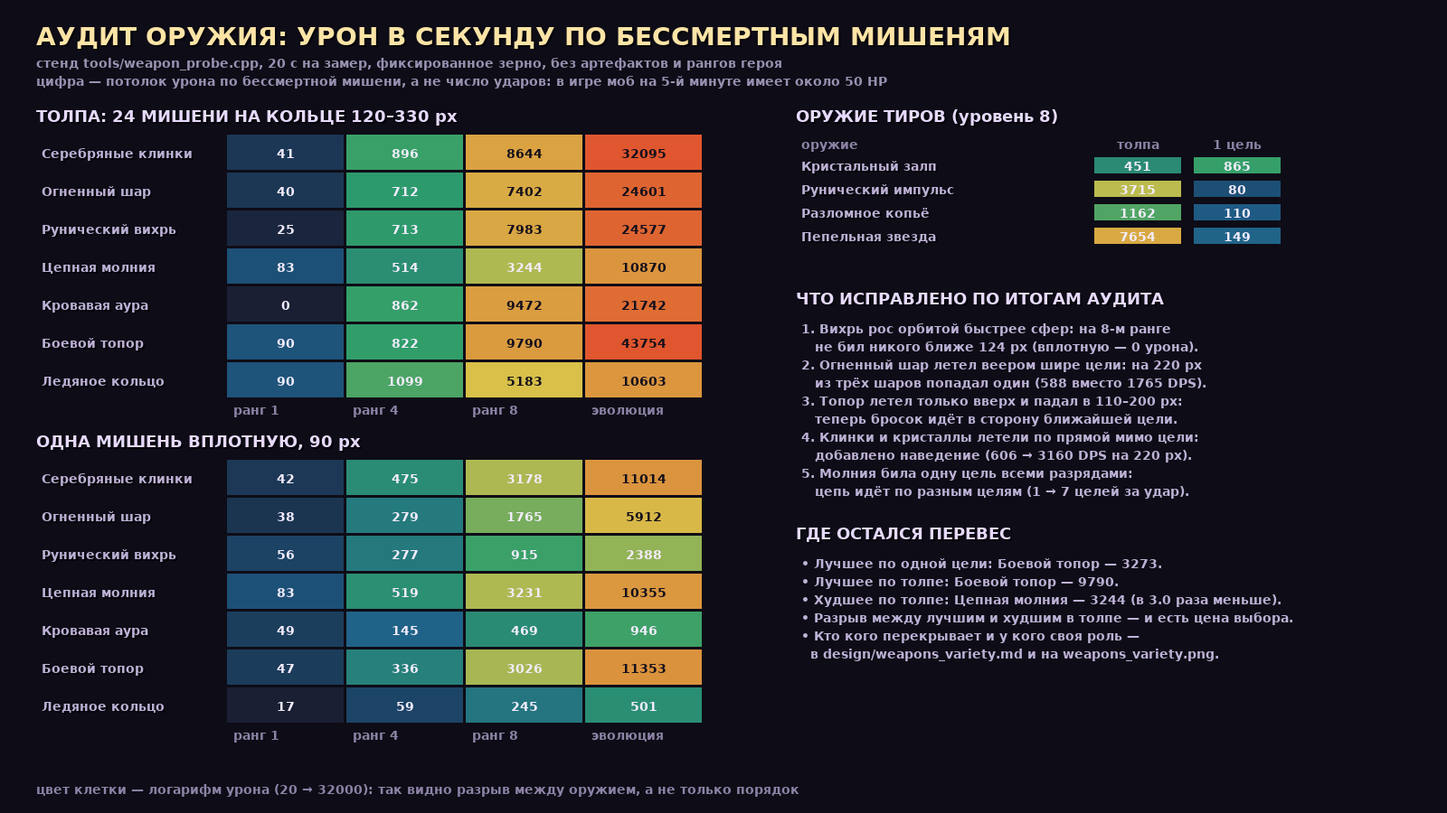
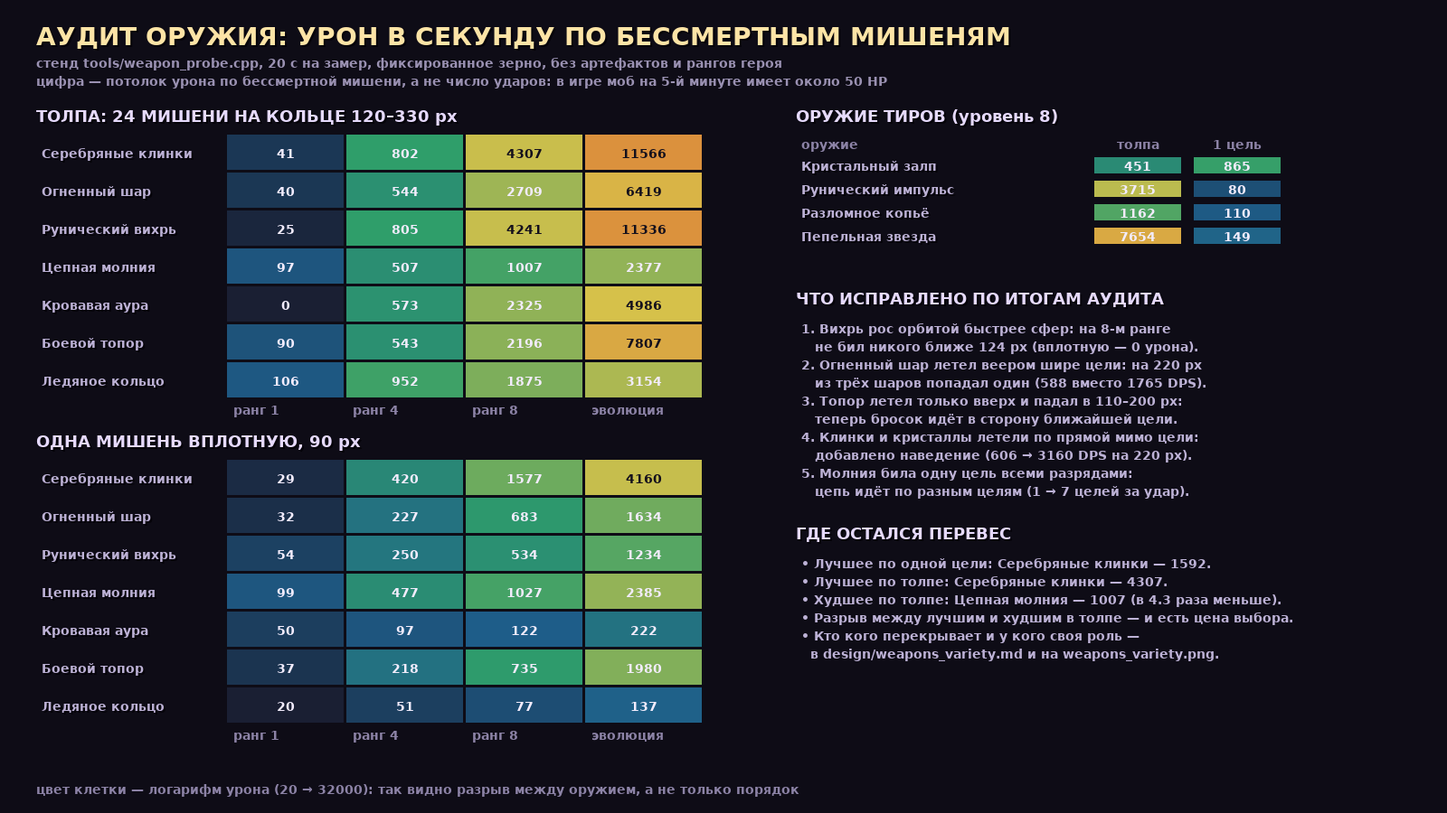
2.12.6: ровнее рост способностей, подпись темпа убрана
ТЕМП: МЕДЛЕННО/СРЕДНЕ/БЫСТРО/ОЧЕНЬ БЫСТРО убран из журнала (темп по толпе
остался в звуке и в волнах по краю экрана), рамка журнала 102 -> 80 px.

Рост способностей от ранга выровнен: урон от уровня у всех семи оружий идёт по
одной кривой (база, x1.8 на 4-м, x1.9 на 8-м вместо до x3.6), множитель ранга
9/8/5/2 % без разгона, пол паузы поднят. Рост 1->8: клинки x35.5 вместо x72.8,
топор x16.2 вместо x82.0, молния x9.9 вместо x38.1 и т.д.; 4-й ранг просел на
10-20 %, 8-й — вдвое. У молнии с 4-го ранга +1 разряд.

weapon_probe: пассивки по семи зёрнам, «не про урон» больше не валит стенд,
строка сравнения с супером считается по замеру.

Changed region(s): [[0.3125, 0.1556, 0.5, 0.4978], [0.3125, 0.56, 0.5, 0.9022], [0.6875, 0.6844, 0.8438, 0.7467]]

diff --git a/src/game.h b/src/game.h
@@ -225,7 +225,7 @@ static inline int holidayMonsterSlot(int type) {
 static constexpr int STORY_INTRO_VERSION = 4;
 static constexpr int PATCH_NOTES_VERSION = GAME_VERSION_NUM;
 // Every released version has one entry in the chronicle (see versions[]/notes[]).
-static constexpr int PATCH_NOTES_COUNT = 160;
+static constexpr int PATCH_NOTES_COUNT = 161;
 
 // ── Arena identity ──────────────────────────────────────────────────────────────
 // Each act is a different place, not the same floor with a new tint: stone, mortar,
@@ -2384,20 +2384,38 @@ struct Game {
         return tier >= 2 ? 4.0f : (tier == 1 ? 1.85f : 1.0f);
     }
     float getEvoMultiplier(int weaponId) const { return evolvedWeapons[weaponId] ? 1.65f : 1.0f; }
+    // Урон от уровня у всех семи оружий растёт по одной кривой: 1-й ранг — база,
+    // к 4-му — ×1.80, к 8-му — ×1.90. Раньше у каждого оружия был свой линейный
+    // наклон (+7.5, +14, +6.5 … урона за уровень), и к 8-му рангу урон утраивался:
+    // вместе с множителем ранга, частотой и снарядами выходил рост в 30–80 раз.
+    // Кривая спереди круче, чем сзади: середина забега (4-й ранг) остаётся
+    // рабочей, а к 8-му рангу усиление уже не сметает волну одним залпом.
+    float getWeaponLevelCurve(int level) const {
+        static const float curve[8] = {1.00f, 1.30f, 1.57f, 1.80f, 1.84f, 1.87f, 1.89f, 1.90f};
+        const int i = std::max(0, std::min(7, level - 1));
+        return curve[i];
+    }
+    // Рост от ранга. До 2.12.6 здесь стояло +8–14 % за ранг ПЛЮС разгон
+    // (+0.003 за каждый следующий ранг), и вместе с линейным уроном от уровня и
+    // числом снарядов одно оружие росло с 1-го до 8-го ранга в 30–80 раз по одной
+    // цели и в 200–1200 раз по толпе: к 8-му рангу любая волна сметалась залпом,
+    // и дальше играть было не во что. Теперь множитель ранга — 9, 8, 5 %, дальше
+    // по 2 % и без разгона: 1-й → 8-й ранг даёт ×1.33 по урону за ранг, остальное
+    // добирают уровень, частота и охват. Стенд: tools/weapon_probe.cpp.
     float getWeaponRankDamageMultiplier(int weaponId) const {
-        static const float rankGrowth[7] = {1.10f, 1.13f, 1.08f, 1.12f, 1.09f, 1.14f, 1.11f};
+        static const float rankGrowth[7] = {1.090f, 1.080f, 1.050f, 1.020f, 1.020f, 1.020f, 1.020f};
         if (weaponId < 0 || weaponId >= 7) return 1.0f;
         float multiplier = 1.0f;
         for (int rank = 0; rank < std::max(0, itemLevels[weaponId] - 1); ++rank)
-            multiplier *= rankGrowth[weaponId] + 0.003f * rank; // later ranks hit harder than early ranks
+            multiplier *= rankGrowth[weaponId];
         return multiplier;
     }
     float getWeaponRankCooldownMultiplier(int weaponId) const {
-        static const float rankCadence[7] = {0.970f, 0.985f, 0.960f, 0.975f, 0.950f, 0.985f, 0.955f};
+        static const float rankCadence[7] = {0.985f, 0.992f, 0.980f, 0.988f, 0.975f, 0.992f, 0.978f};
         if (weaponId < 0 || weaponId >= 7) return 1.0f;
         float multiplier = 1.0f;
         for (int rank = 0; rank < std::max(0, itemLevels[weaponId] - 1); ++rank)
-            multiplier *= std::max(0.88f, rankCadence[weaponId] - 0.0015f * rank);
+            multiplier *= std::max(0.94f, rankCadence[weaponId]);
         return multiplier;
     }
     float getWeaponRankAreaMultiplier(int weaponId) const {
@@ -2405,7 +2423,7 @@ struct Game {
         if (weaponId < 0 || weaponId >= 7) return 1.0f;
         float areaBonus = 0.0f;
         for (int rank = 0; rank < std::max(0, itemLevels[weaponId] - 1); ++rank)
-            areaBonus += rankArea[weaponId] + 0.004f * rank;
+            areaBonus += rankArea[weaponId];
         return 1.0f + areaBonus;
     }
     // Рунический вихрь: формулы сфер вынесены в одно место, чтобы отрисовка
@@ -2431,7 +2449,7 @@ struct Game {
             case 0: return 1 + level / 2 + evolvedBonus;
             case 1: return 1 + (level >= 4 ? 1 : 0) + (level >= 7 ? 1 : 0) + evolvedBonus;
             case 2: return 3 + level / 2 + evolvedBonus;
-            case 3: return 3 + level / 2 + evolvedBonus;
+            case 3: return 3 + level / 2 + (level >= 4 ? 1 : 0) + evolvedBonus;
             case 5: return 1 + level / 3 + (level >= 7 ? 1 : 0) + evolvedBonus;
             default: return 0;
         }
@@ -5382,7 +5400,7 @@ struct Game {
             weaponTimers[0] -= dt;
             if (weaponTimers[0] <= 0.0f) {
                 int lvl = itemLevels[0];
-                weaponTimers[0] = std::max(0.22f, (0.78f - lvl * 0.05f) * cdMult * getWeaponRankCooldownMultiplier(0));
+                weaponTimers[0] = std::max(0.30f, (0.78f - lvl * 0.05f) * cdMult * getWeaponRankCooldownMultiplier(0));
                 int count = 1 + lvl / 2 + (evolvedWeapons[0] ? 2 : 0);
                 int target = findNearestMonster(playerX, playerY, 550.0f);
                 float baseAngle = (playerFacing > 0) ? 0.0f : 3.14159f;
@@ -5398,7 +5416,7 @@ struct Game {
                     p.vx = cosf(a) * 520.0f;
                     p.vy = sinf(a) * 520.0f;
                     p.weaponId = 0;
-                    p.damage = (18.0f + lvl * 7.5f) * getEvoMultiplier(0) * getWeaponRankDamageMultiplier(0);
+                    p.damage = 25.5f * getWeaponLevelCurve(lvl) * getEvoMultiplier(0) * getWeaponRankDamageMultiplier(0);
                     p.radius = 9.0f * areaMult * getWeaponRankAreaMultiplier(0);
                     p.life = 1.35f;
                     p.pierce = 1 + (lvl >= 4 ? 1 : 0) + (lvl >= 7 ? 1 : 0);
@@ -5415,7 +5433,7 @@ struct Game {
             weaponTimers[1] -= dt;
             if (weaponTimers[1] <= 0.0f) {
                 int lvl = itemLevels[1];
-                weaponTimers[1] = std::max(0.55f, (1.65f - lvl * 0.10f) * cdMult * getWeaponRankCooldownMultiplier(1));
+                weaponTimers[1] = std::max(0.75f, (1.65f - lvl * 0.10f) * cdMult * getWeaponRankCooldownMultiplier(1));
                 int count = 1 + (lvl >= 4 ? 1 : 0) + (lvl >= 7 ? 1 : 0) + (evolvedWeapons[1] ? 1 : 0);
                 int target = findNearestMonster(playerX, playerY, 600.0f);
                 float baseAngle = (target >= 0)
@@ -5447,7 +5465,7 @@ struct Game {
                     p.vx = cosf(a) * 340.0f;
                     p.vy = sinf(a) * 340.0f;
                     p.weaponId = 1;
-                    p.damage = (34.0f + lvl * 14.0f) * getEvoMultiplier(1) * getWeaponRankDamageMultiplier(1);
+                    p.damage = 48.0f * getWeaponLevelCurve(lvl) * getEvoMultiplier(1) * getWeaponRankDamageMultiplier(1);
                     p.radius = 14.0f * areaMult * getWeaponRankAreaMultiplier(1);
                     p.life = 1.8f;
                     p.pierce = 1;
@@ -5476,7 +5494,7 @@ struct Game {
                 const float innerEdge = (78.0f + lvl * 3.0f) - (23.0f + lvl * 1.6f);
                 float hitRad = std::max((23.0f + lvl * 1.6f) * areaMult * getWeaponRankAreaMultiplier(2),
                                         orbitRad - innerEdge);
-                float dmg = (15.0f + lvl * 6.5f) * getEvoMultiplier(2) * getWeaponRankDamageMultiplier(2);
+                float dmg = 21.5f * getWeaponLevelCurve(lvl) * getEvoMultiplier(2) * getWeaponRankDamageMultiplier(2);
                 // Мёртвая середина. Сферы ходят по кольцу, и враг, стоящий вплотную
                 // к герою, оказывался ВНУТРИ кольца: вихрь не задевал его вообще.
                 // На стенде волны трое таких мобов стояли нетронутыми 90 с. Вихрь
@@ -5521,9 +5539,9 @@ struct Game {
             weaponTimers[3] -= dt;
             if (weaponTimers[3] <= 0.0f) {
                 int lvl = itemLevels[3];
-                weaponTimers[3] = std::max(0.65f, (2.1f - lvl * 0.14f) * cdMult * getWeaponRankCooldownMultiplier(3));
-                int strikes = 3 + lvl / 2 + (evolvedWeapons[3] ? 3 : 0);
-                float dmg = (30.0f + lvl * 12.0f) * getEvoMultiplier(3) * getWeaponRankDamageMultiplier(3);
+                weaponTimers[3] = std::max(0.95f, (2.1f - lvl * 0.14f) * cdMult * getWeaponRankCooldownMultiplier(3));
+                int strikes = 3 + lvl / 2 + (lvl >= 4 ? 1 : 0) + (evolvedWeapons[3] ? 3 : 0);
+                float dmg = 50.0f * getWeaponLevelCurve(lvl) * getEvoMultiplier(3) * getWeaponRankDamageMultiplier(3);
                 // Цепь идёт по РАЗНЫМ целям: раньше каждый следующий разряд искал
                 // ближайшего к предыдущей жертве, то есть снова её же (расстояние 0),
                 // и все удары складывались в одну цель — «цепная» молния не цеплялась.
@@ -5566,7 +5584,7 @@ struct Game {
                 int lvl = itemLevels[4];
                 weaponTimers[4] = 0.38f * cdMult * getWeaponRankCooldownMultiplier(4);
                 float auraRad = (88.0f + lvl * 11.0f) * areaMult * getWeaponRankAreaMultiplier(4);
-                float dmg = (10.0f + lvl * 4.8f) * getEvoMultiplier(4) * getWeaponRankDamageMultiplier(4);
+                float dmg = 14.8f * getWeaponLevelCurve(lvl) * getEvoMultiplier(4) * getWeaponRankDamageMultiplier(4);
                 for (size_t m = 0; m < monsters.size(); ++m) {
                     if (monsters[m].hp <= 0.0f) continue;
                     float dx = monsters[m].x - playerX;
@@ -5585,7 +5603,7 @@ struct Game {
             weaponTimers[5] -= dt;
             if (weaponTimers[5] <= 0.0f) {
                 int lvl = itemLevels[5];
-                weaponTimers[5] = std::max(0.55f, (1.45f - lvl * 0.09f) * cdMult * getWeaponRankCooldownMultiplier(5));
+                weaponTimers[5] = std::max(0.65f, (1.45f - lvl * 0.09f) * cdMult * getWeaponRankCooldownMultiplier(5));
                 int count = 1 + lvl / 3 + (lvl >= 7 ? 1 : 0) + (evolvedWeapons[5] ? 2 : 0);
                 // Топоры летели только вверх и на 110–200 px: на первом ранге один
                 // топор падал в 120 px от героя и не доставал никого дальше. Теперь
@@ -5621,7 +5639,7 @@ struct Game {
                         p.vy = vy;
                     }
                     p.weaponId = 5;
-                    p.damage = (36.0f + lvl * 15.0f) * getEvoMultiplier(5) * getWeaponRankDamageMultiplier(5);
+                    p.damage = 51.0f * getWeaponLevelCurve(lvl) * getEvoMultiplier(5) * getWeaponRankDamageMultiplier(5);
                     p.radius = 18.0f * areaMult * getWeaponRankAreaMultiplier(5);
                     p.life = 2.0f;
                     p.pierce = 999; // Pierces all enemies!
@@ -5638,9 +5656,9 @@ struct Game {
             weaponTimers[6] -= dt;
             if (weaponTimers[6] <= 0.0f) {
                 int lvl = itemLevels[6];
-                weaponTimers[6] = std::max(1.2f, (3.2f - lvl * 0.22f) * cdMult * getWeaponRankCooldownMultiplier(6));
+                weaponTimers[6] = std::max(1.30f, (3.2f - lvl * 0.22f) * cdMult * getWeaponRankCooldownMultiplier(6));
                 float maxRad = (155.0f + lvl * 18.0f) * areaMult * getWeaponRankAreaMultiplier(6);
-                float dmg = (24.0f + lvl * 10.0f) * getEvoMultiplier(6) * getWeaponRankDamageMultiplier(6);
+                float dmg = 40.0f * getWeaponLevelCurve(lvl) * getEvoMultiplier(6) * getWeaponRankDamageMultiplier(6);
                 FrostWave fw = {playerX, playerY, 20.0f, maxRad, 0.40f, 0.40f};
                 frostWaves.push_back(fw);
                 bool frozeAnyTarget = false;
@@ -8874,7 +8892,9 @@ struct Game {
 
         // 4. Top-right run ledger: fixed-width columns and compact large counters prevent collisions.
         const int ledgerW = 310, ledgerX = SCREEN_W - 324;
-        drawUIFrame(r, ledgerX, 33, ledgerW, 102, 0xFF66D5E8, true, 242);
+        // Три строки, а не четыре: рамка ужата под них (было 102 px на четыре
+        // строки с «ТЕМП: …»).
+        drawUIFrame(r, ledgerX, 33, ledgerW, 80, 0xFF66D5E8, true, 242);
         auto compactCounter = [](long long value) {
             char out[32];
             if (value >= 1000000000LL) snprintf(out, sizeof(out), "%.1fB", value / 1000000000.0);
@@ -8892,11 +8912,9 @@ struct Game {
         // Dedicated third row keeps long DPS values (e.g. 1111) from touching audio status.
         snprintf(buf, sizeof(buf), "SFX %s   /   MUSIC %s", sound.enabled ? "ON" : "OFF", sound.musicEnabled ? "ON" : "OFF");
         r.drawTextRight(FONT_SMALL, ledgerX + ledgerW - 12, 85, buf, (sound.enabled && sound.musicEnabled) ? 0xFF70FF98 : 0xFF9890A8);
-        static const char* tempoLabels[4]={"МЕДЛЕННО","СРЕДНЕ","БЫСТРО","ОЧЕНЬ БЫСТРО"};
-        static const uint32_t tempoColors[4]={0xFF8C91C7,0xFF65D9E8,0xFFFFB957,0xFFFF6374};
-        const int displayedTempo=std::max(0,std::min(3,musicCrowdTempoTier));
-        snprintf(buf,sizeof(buf),"ТЕМП: %s",tempoLabels[displayedTempo]);
-        r.drawTextRight(FONT_SMALL, ledgerX + ledgerW - 12, 108, buf, tempoColors[displayedTempo]);
+        // Темп музыки по толпе живёт в звуке (SoundEngine::nextMusicTempoTier) и
+        // слышен на слух: цветные волны по краю экрана. Отдельная строка
+        // «ТЕМП: МЕДЛЕННО» в журнале только занимала место — убрана в 2.12.6.
 
         // 5. Off-screen Boss Chest indicator arrow
         for (const auto& p : pickups) {
@@ -13060,6 +13078,7 @@ struct Game {
             "2.12.3 • WINDOWS-СБОРКА И АПДЕЙТЕР",
             "2.12.4 • АПДЕЙТЕР ПРОВЕРЯЕТ САМ СЕБЯ",
             "2.12.5 • КНОПКА «НАЗАД» В ПРАЗДНИКАХ",
+            "2.12.6 • РОСТ СПОСОБНОСТЕЙ ПОЛОЖЕ",
         };
                 // Заметки намеренно не сокращаются: панель листается колесом мыши.
         static const char* const notes[] = {
@@ -13222,6 +13241,7 @@ struct Game {
             "Windows-сборка снова собирается, а апдейтер больше не врёт о причинах.\n• Настоящая причина: с 2.10.48 в WinMain третий параметр был безымянным (LPSTR), а ниже командная строка читалась как lpCmdLine. GCC и clang на этом останавливаются, но стенды собирают другой файл, поэтому ошибку никто не видел: версии 2.10.48-2.12.2 на Windows не собирались вообще. Теперь параметр назван, и exe линкуется.\n• Почему это не всплыло раньше: все стенды - отдельные единицы трансляции, они включают game.h и не трогают src/main_win32.cpp. Появился tools/check_win32.sh: он собирает ровно тот же TU кросс-компилятором (Zig/LLVM, x86_64-windows-gnu) с теми же ключами, что build_windows.bat. Проверка занимает секунды и ловит именно такие разрывы.\n• Апдейтер: показ лога шага шёл внешней утилитой type, и на одной машине она падала как «ype». Код возврата снимался уже после показа, поэтому успешный git pull считался неудачным. Теперь код возврата снимается сразу после git, а лог печатается средствами cmd (FOR по файлу). Тот же порядок исправлен и в переключении ветки: раньше там показывался не тот файл.\n• Если сборка всё-таки не прошла, апдейтер больше не прячет причину: печатает строки с error из build\build.log и кладёт копию рядом - build_error.log. Прошлый раз причина была именно в этом логе, а на экране было только «g++ compile failed».\n• Новый tools/check_bat_labels.py: сверяет все goto и call с метками в update.bat и build_windows.bat. Опечатка в метке в cmd означает не ошибку, а тихое «продолжить со следующей строки» - такую поломку глазами не поймать.\n• Честно: проверено компиляцией и линковкой под Windows-цель, запуска на Windows не было. Апдейтер проверен разбором сгенерированного bat и сверкой меток, а не прогоном в cmd.",
             "Сборка 2.12.3 прошла, а в консоли осталось чужое сообщение - и это был не код игры.\n• В логе обновления появилась строка «после.» не является командой, хотя сборка закончилась BUILD SUCCESS. Такое бывает, когда update.bat на диске не совпадает с версией в ветке: cmd читает чужие строки и выполняет их обрывки. В том запуске копия действительно расходилась с веткой - апдейтер сам отложил её перед git pull, поэтому обновление всё равно доехало.\n• Теперь апдейтер сверяет себя с веткой до начала работы: git hash-object update.bat против HEAD:update.bat. Если файл испорчен или старше того, что лежит в ветке, он ставит версию из ветки и просит запустить заново - вместо того чтобы выполнять обрывки чужих строк. Если на диске лежит более свежая копия (её скачали руками), она остаётся: версии сравниваются.\n• Из 2.12.3 сюда же: код возврата git снимается до показа лога, показ идёт средствами cmd, а при провале сборки на экран попадают error-строки из build\build.log.\n• Честно: воспроизвести именно строку «после.» не удалось - в файле из ветки такой команды нет. Поэтому лечится не симптом, а причина: расхождение файла с веткой теперь видно и исправляется само.",
             "Из календаря праздников нельзя было выйти мышью или пальцем.\n• Экран открывается из настроек и из паузы, но выйти из него можно было только клавишей ESC. Кнопки не было вовсе: три переключателя внизу — «ПРАЗДНИКИ», «ПРОВЕРКА», «СДВИГ ДАТЫ» — и всё. На телефоне клавиши нет, то есть с телефона календарь становился ловушкой.\n• Теперь в подвале есть «← НАЗАД [ESC]»: в альбоме — справа в ряду переключателей, в портрете — четвёртой строкой столбика. Та же кнопка, что в настройках: нажатие, подсветка под курсором, на телефоне подпись читается как «← НАЗАД».\n• Клавиши работают как раньше: ESC, ENTER и SPACE закрывают календарь и возвращают туда, откуда его открыли (в настройки или в паузу).\n• Попутно в альбоме подсказка клавиш стояла прямо на ряду кнопок (строка на SCREEN_H-22 при кнопках до SCREEN_H-20) — теперь она над рядом и ужимается по ширине. В портрете подвал вырос с 132 до 176 px: четыре кнопки в прежние 132 не вставали.\n• Подписи кнопок ужимаются по своей ширине: на 800×600 «ПРОВЕРКА: ПО КАЛЕНДАРЮ» была шире кнопки и заезжала на соседнюю.\n• Хеш экрана «праздники» сменился с 3f868c27 на 39049f60 — это тот самый ряд кнопок. Кадры боя не изменились: 2.12.5 рисует календарь, а не арену.",
+            "Две правки по одному отзыву: «ТЕМП: медленно» в журнале устарел, а способности растут слишком сильно.\n• Строка «ТЕМП: МЕДЛЕННО / СРЕДНЕ / БЫСТРО / ОЧЕНЬ БЫСТРО» убрана из журнала справа сверху: темп музыки по толпе и так слышен и виден цветными волнами по краю экрана, а подпись только занимала место. Рамка журнала стала ниже: 102 -> 80 px.\n• Рост способностей от ранга: урон за ранг умножался на +8-14 % и получал разгон на поздних рангах, у каждого оружия был свой наклон урона от уровня, сверху шли частота, снаряды и площадь. Одно оружие с 1-го до 8-го ранга усиливалось в 29-82 раза по одной цели и в 43-1200 раз по толпе.\n• Теперь урон от уровня у всех семи оружий идёт по одной кривой: 1-й ранг - база, 4-й - x1.8, 8-й - x1.9 (было до x3.6). Кривая спереди круче, поэтому середина забега не просела.\n• Множитель урона за ранг: 9 %, 8 %, 5 %, дальше по 2 % - без разгона. Пол паузы между срабатываниями поднят: клинки 0.30 вместо 0.22 с, молния 0.95 вместо 0.65, топор 0.65 вместо 0.55, кольцо 1.30 вместо 1.20.\n• Охват не трогал: снаряды и радиусы остались прежними - это роль оружия, а не темп роста. У молнии с 4-го ранга на один разряд больше: на стенде зачистки она стояла на самой границе.\n• Итог по стенду оружия (одна цель / толпа): клинки x35.5 / x101.7 вместо x72.8 / x209.9, шар x18.3 / x98.6 вместо x47.5 / x197.3, вихрь x11.5 / x383.7 вместо x29.3 / x1210, молния x9.9 / x11.4 вместо x38.1 / x42.8, топор x16.2 / x26.9 вместо x82.0 / x111.2, кольцо x3.5 / x18.2 вместо x11.7 / x56.2, аура x2.5 вместо x9.6.\n• То есть 1-4-й ранги почти как были (на 10-20 % слабее), а 5-8-й дают вдвое меньше. Ранг 8 у каждого оружия остаётся лучшим, но перестаёт быть кнопкой зачистки.\n• Стенд зачистки (40 мобов с здоровьем 5-й минуты): на 4-м ранге 12.6 с у клинков, 7.7 у шара, 9.8 у вихря, 18.9 у молнии, 14.0 у ауры, 9.7 у топора, 17.7 у кольца при лимите 20 с - провалов 0.\n• tools/weapon_probe.cpp: пассивки усредняются по семи зёрнам, артефакты «не про урон» помечаются как шум и не валят стенд. Строка сравнения с суперумением считается по замеру, а не вписана руками.\n• Честно: баланс проверен стендами, а не живым забегом; сколько волн выживает игрок после правки, никто не проходил.",
         };
         static_assert(sizeof(versions) / sizeof(versions[0]) == PATCH_NOTES_COUNT,
                       "хроника: versions[] должен совпадать с PATCH_NOTES_COUNT");

diff --git a/src/version.h b/src/version.h
@@ -7,9 +7,9 @@
 // drift apart again. The fallback below only applies to plain `g++` builds
 // (IDE, syntax check, the headless tests).
 #ifndef GAME_VERSION
-#define GAME_VERSION "2.12.5"
+#define GAME_VERSION "2.12.6"
 #endif
 #ifndef GAME_VERSION_NUM
 // 2.9.80 -> 2*1000 + 9*100 + 80
-#define GAME_VERSION_NUM 3205
+#define GAME_VERSION_NUM 3206
 #endif

diff --git a/CHANGELOG.md b/CHANGELOG.md
@@ -1,4 +1,88 @@
-# CHANGELOG — ShadowSurvivors 2.12.5+
+# CHANGELOG — ShadowSurvivors 2.12.6+
+
+## 2.12.6 — «Способности растут ровнее»
+
+Два отзыва одной строкой: «ТЕМП: медленно — это устарело, придётся убрать» и
+«слишком сильно стали расти способности по мере улучшения».
+
+### 1. Подпись темпа убрана из журнала
+
+Строка `ТЕМП: МЕДЛЕННО / СРЕДНЕ / БЫСТРО / ОЧЕНЬ БЫСТРО` жила в журнале справа
+сверху с 2.9.32. Темп музыки по толпе никуда не делся — он слышен и виден
+цветными волнами по краю экрана (`renderMusicTempoEffects`), — но подпись только
+занимала место. Убрана; рамка журнала ужата со 102 до 80 px.
+
+### 2. Рост способностей от ранга
+
+Что было: урон за ранг умножался на +8…14 % **и** получал разгон
+(`+0.003 * rank`), у каждого оружия был свой линейный наклон урона от уровня
+(+7.5, +14, +6.5 … за уровень), сверху — сокращение паузы, прибавка снарядов и
+площади. Одно оружие с 1-го до 8-го ранга усиливалось в **29–82 раза** по одной
+цели и в **43–1200 раз** по толпе: к 8-му рангу волна сметалась одним залпом.
+
+Что стало:
+
+- урон от уровня у всех семи оружий считается по одной кривой — 1-й ранг база,
+  4-й ×1.8, 8-й ×1.9 (было до ×3.6). Кривая спереди круче: середина забега не
+  просела;
+- множитель урона за ранг — 9 %, 8 %, 5 %, дальше по 2 % (было 8–14 % плюс
+  разгон на поздних рангах);
+- бонус площади за ранг потерял разгон `+0.004 * rank`;
+- пол паузы между срабатываниями поднят: клинки 0.30 вместо 0.22 с, молния 0.95
+  вместо 0.65, топор 0.65 вместо 0.55, кольцо 1.30 вместо 1.20;
+- число снарядов и радиусы оставлены прежними: охват — то, ради чего эти оружия
+  берут, и резать его значило бы менять роль оружия, а не темп роста;
+- у молнии с 4-го ранга на один разряд больше (6 вместо 5 на 4-м ранге): на
+  стенде зачистки она стояла на самой границе 20 с.
+
+Рост по стенду (`tools/weapon_probe.cpp`, одна цель в 90 px / толпа):
+
+| оружие | было | стало |
+|---|---|---|
+| Серебряные клинки | ×72.8 / ×209.9 | ×35.5 / ×101.7 |
+| Огненный шар | ×47.5 / ×197.3 | ×18.3 / ×98.6 |
+| Рунический вихрь | ×29.3 / ×1210 | ×11.5 / ×383.7 |
+| Цепная молния | ×38.1 / ×42.8 | ×9.9 / ×11.4 |
+| Кровавая аура | ×9.6 / — | ×2.5 / — |
+| Боевой топор | ×82.0 / ×111.2 | ×16.2 / ×26.9 |
+| Ледяное кольцо | ×11.7 / ×56.2 | ×3.5 / ×18.2 |
+
+Иначе говоря: 1–4-й ранги почти как были (на 10–20 % слабее), 5–8-й дают примерно
+вдвое меньше, чем раньше. Ранг 8 остаётся лучшим у каждого оружия, но перестаёт
+быть «кнопкой зачистки».
+
+Проверка стендом зачистки (`tools/variety_probe.cpp`, 40 мобов с здоровьем 5-й
+минуты, одно оружие): 4-й ранг — 12.6 с у клинков, 7.7 у шара, 9.8 у вихря,
+18.9 у молнии, 14.0 у ауры, 9.7 у топора, 17.7 у кольца (лимит 20 с). Было
+11.3 / 7.6 / 10.7 / 19.3 / 8.4 / 7.8 / 14.6. 8-й ранг — 3.7 / 5.4 / 4.8 / 9.7 /
+8.1 / 5.9 / 10.6 против 3.5 / 4.8 / 4.8 / 5.0 / 8.2 / 5.5 / 3.7. Прогон зелёный,
+провалов 0.
+
+### 3. Стенд оружия больше не падает на шуме
+
+- Пассивки усредняются по семи зёрнам (было три): «Руна Возврата» на трёх зёрнах
+  давала −3.8 % и валила стенд в «ХУЖЕ БАЗЫ», хотя урона не касается.
+- Артефакты, у которых в стенде нет события (опыт, золото, щит, потеря HP),
+  помечаются как «шум, не про урон». Провал остаётся только за артефактом,
+  который обещает урон.
+- Строка «для сравнения: ранг-1 … ранг-8 …» считается по замеру, а не вписана
+  руками (раньше там висели цифры 2.10.42).
+
+### Проверка
+
+- `weapon_probe` — провалов 0, рост от ранга монотонный у всех семи оружий.
+- `variety_probe` — все семь оружий зачищают волну на 4-м и 8-м ранге, провалов 0.
+- `screen_check`: сменился экран боя (журнал и подпись версии), остальные хеши —
+  из-за версии в углу экрана.
+- `check_version.py`, `check_win32.sh`, `check_android.sh`, `check_bat_labels.py` —
+  без замечаний.
+
+### Честно
+
+- Порог сложности не подгонялся: правка сужает рост силы, но «сколько волн
+  выживает игрок» живым забегом не проверялось — только стендами зачистки.
+- Множитель эволюции (×1.65) и суперумение не трогал: жалоба была про рост
+  обычных способностей по рангам.
 
 ## 2.12.5 — «Кнопка „Назад“ в праздниках»
 

diff --git a/design/weapons_audit.md b/design/weapons_audit.md
@@ -224,3 +224,62 @@ build/weapon_chart /tmp/weapon_after.csv design/weapons_audit.ppm
 если цепь бьёт меньше двух разных целей, если оружие не попадает по движущейся
 цели, если пассивка на максимуме ухудшает урон или если суперумение не задело
 никого. Прогон «до правок» делается тем же стендом против `git archive HEAD`.
+
+## 2.12.6 — рост от ранга выровнен
+
+Жалоба: «слишком сильно стали расти способности по мере улучшения».
+
+Считалось: множитель урона за ранг (+8–14 % и разгон +0.003 за ранг), свой
+линейный наклон урона от уровня у каждого оружия (+7.5, +14, +6.5 … за уровень),
+сокращение паузы, прибавка снарядов и площади — всё умножалось друг на друга.
+Одно оружие с 1-го до 8-го ранга усиливалось в 29–82 раза по одной цели и в
+43–1200 раз по толпе.
+
+Что поменялось (подробности — в `CHANGELOG.md` за 2.12.6): урон от уровня у всех
+семи оружий идёт по одной кривой (1-й ранг база, 4-й ×1.8, 8-й ×1.9), множитель
+ранга 9 / 8 / 5 %, дальше по 2 %, без разгона; пол паузы поднят. Снаряды и
+радиусы оставлены прежними — это роль оружия, а не темп роста.
+
+Замер после правки (`build/weapon_probe 12 -1`), DPS: 220 px / 90 px / 20 px /
+в движ. / толпа:
+
+| оружие | ранг 1 | ранг 4 | ранг 8 | эволюция |
+|---|---|---|---|---|
+| Серебряные клинки | 44 / 44 / 42 / 44 / 42 | 415 / 395 / 402 / 415 / 763 | 1548 / 1560 / 1600 / 1470 / 4282 | 4059 / 4157 / 3506 / 4059 / 11461 |
+| Огненный шар | 41 / 38 / 49 / 38 / 29 | 226 / 226 / 226 / 196 / 573 | 651 / 692 / 681 / 651 / 2839 | 1672 / 1457 / 1624 / 1609 / 6623 |
+| Рунический вихрь | 0 / 48 / 79 / 0 / 11 | 0 / 256 / 248 / 0 / 695 | 15 / 556 / 512 / 15 / 4335 | 533 / 1211 / 1222 / 551 / 11578 |
+| Цепная молния | 99 / 99 / 96 / 79 / 92 | 495 / 495 / 423 / 495 / 502 | 1084 / 988 / 1059 / 1084 / 1051 | 2075 / 2424 / 2410 / 2424 / 2398 |
+| Кровавая аура | 0 / 49 / 50 / 0 / 0 | 0 / 91 / 91 / 0 / 577 | 123 / 123 / 118 / 120 / 2306 | 221 / 221 / 209 / 221 / 5062 |
+| Боевой топор | 0 / 44 / 45 / 9 / 80 | 0 / 212 / 244 / 34 / 526 | 174 / 713 / 832 / 181 / 2164 | 1156 / 2062 / 2295 / 616 / 7636 |
+| Ледяное кольцо | 0 / 23 / 26 / 0 / 108 | 58 / 53 / 47 / 47 / 1012 | 83 / 83 / 77 / 83 / 1966 | 140 / 129 / 151 / 140 / 3308 |
+
+Рост 1 → 8, было → стало (одна цель в 90 px / толпа): клинки ×72.8 / ×209.9 →
+×35.5 / ×101.7, шар ×47.5 / ×197.3 → ×18.3 / ×98.6, вихрь ×29.3 / ×1210 →
+×11.5 / ×383.7, молния ×38.1 / ×42.8 → ×9.9 / ×11.4, аура ×9.6 → ×2.5,
+топор ×82.0 / ×111.2 → ×16.2 / ×26.9, кольцо ×11.7 / ×56.2 → ×3.5 / ×18.2.
+
+Целей за активацию на 8-м ранге: клинки 3.9, шар 4.0, вихрь 10.1, молния 8.0,
+аура 19.0, кольцо 24.0. Срабатываний в минуту: вихрь 330, аура 200, клинки 190,
+топор 95, шар 80, молния 65, кольцо 50.
+
+### Стенд зачистки
+
+`tools/variety_probe.cpp` — 40 мобов с здоровьем 5-й минуты, одно оружие, лимит
+20 с. Время до чистой арены, ранг 4 / ранг 8 (в скобках — до правки):
+
+| оружие | ранг 4 | ранг 8 |
+|---|---|---|
+| Серебряные клинки | 12.6 (11.3) | 3.7 (3.5) |
+| Огненный шар | 7.7 (7.6) | 5.4 (4.8) |
+| Рунический вихрь | 9.8 (10.7) | 4.8 (4.8) |
+| Цепная молния | 18.9 (19.3) | 9.7 (5.0) |
+| Кровавая аура | 14.0 (8.4) | 8.1 (8.2) |
+| Боевой топор | 9.7 (7.8) | 5.9 (5.5) |
+| Ледяное кольцо | 17.7 (14.6) | 10.6 (3.7) |
+
+Вывод: 4-й ранг остался рабочим (молния и кольцо — на границе, как и раньше),
+разрыв между 4-м и 8-м рангом сократился в 1.5–3 раза. Стенд зелёный.
+
+Стенд оружия больше не валится на артефактах «не про урон»: они усредняются по
+семи зёрнам, а −2…−4 % от крита помечаются как шум. Прогон — `build/weapon_probe
+12 -1`, итог «все замеры выполнены», код возврата 0.
